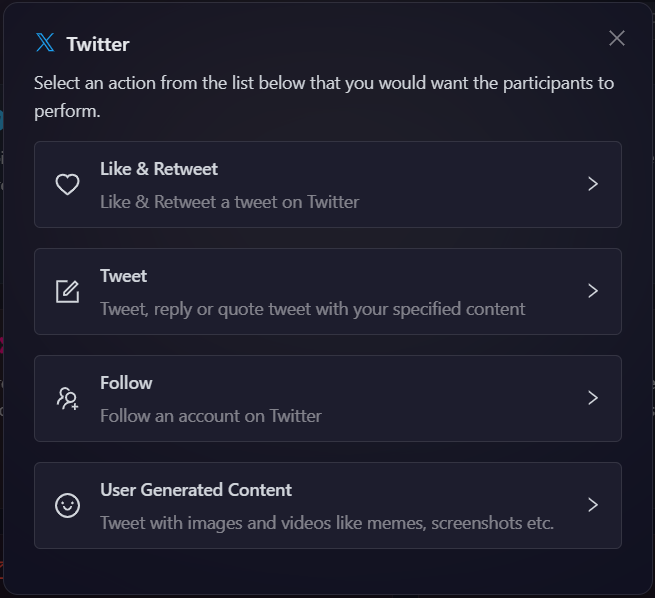
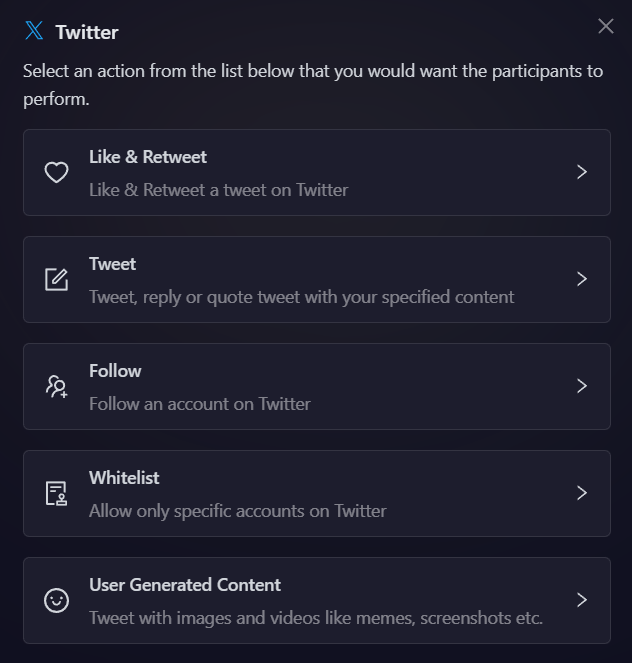
twitter whitelist updated docs

diff --git a/docs/campaign/quests/twitter.md b/docs/campaign/quests/twitter.md
@@ -1,42 +1,45 @@
 # Twitter
 
-Twitter is by far one of the most important social channel that probably any web 3 companies look forward to for building, scaling, and engaging their communities. With that in mind, we have integrated Twitter actions on AirLyft that projects can create action on and ask their community members to complete. In this module, we will be discussing below Twitter actions. 
+Twitter is by far one of the most important social channel that probably any web 3 companies look forward to for building, scaling, and engaging their communities. With that in mind, we have integrated Twitter actions on AirLyft that projects can create action on and ask their community members to complete. In this module, we will be discussing below Twitter actions.
 
 - [Like and Retweet a post on Twitter](#like-and-retweet-a-post-on-twitter)
 - [Tweet Specific Content on Twitter](#tweet-specific-content-on-twitter)
 - [Follow an account on Twitter](#follow-an-account-on-twitter)
+- [Allow only specific accounts on Twitter](#allow-only-specific-accounts-on-twitter)
 - [User Generated Content on Twitter](#user-generated-content-on-twitter)
 
 Creating these actions are very simple and straight forward at AirLyft. Let's dive deep into steps on how to create Twitter Actions on AirLyft.
 
-- First Login onto AirLyft App, Create an event, and head over to Quests tab as shown in the screenshot below. 
+- First Login onto AirLyft App, Create an event, and head over to Quests tab as shown in the screenshot below.
 
 ![](../../images/TwitterAction.png)
 
-- After clicking on the Twitter box, you will then be presented with options for selecting Twitter Actions. Let's read in depth about each of them. 
+- After clicking on the Twitter box, you will then be presented with options for selecting Twitter Actions. Let's read in depth about each of them.
 
 ![](../../images/TwitterOptions.png)
 
 #### Like and Retweet a post on Twitter
 
-Follow these simple steps below on how to create like & retweet tasks on AirLyft. 
+Follow these simple steps below on how to create like & retweet tasks on AirLyft.
 
-- As shown in screenshot above, click on the Twitter box where you can find the Like & Retweet option. Click on it. 
-- Next, click on the basic details option to enter the Title, Description, cFuel and XP. It is advisable to elaborate the title and description so that participants have a much greater understanding of task. 
+- As shown in screenshot above, click on the Twitter box where you can find the Like & Retweet option. Click on it.
+- Next, click on the basic details option to enter the Title, Description, cFuel and XP. It is advisable to elaborate the title and description so that participants have a much greater understanding of task.
 
 ![](../../images/LikeRetweetBasics.png)
 
-- Then expand 'Task Condition and Recurrence' option to set the task frequency and task conditions. 
-    - 'Task Frequency' determines how often users can complete a task. There are four options:
-        - **None:** The task can only be completed once.
-        - **Daily:** The task resets daily at midnight.
-        - **Weekly:** The task resets at the start of every week.
-        - **Monthly:** The task resets at the start of every month.
+- Then expand 'Task Condition and Recurrence' option to set the task frequency and task conditions.
 
-    - 'Task Conditions' determines if a user can perform a task or not. There are four options:
-        - **Task Completed:** It only allows a user to perform a task if he has either completed or not completed another task.
-        - **Date:** It only allows user to perform a task before or after the set date.
-        - **Max Participants:** The task is locked after a certain number of users have completed it.
+  - 'Task Frequency' determines how often users can complete a task. There are four options:
+
+    - **None:** The task can only be completed once.
+    - **Daily:** The task resets daily at midnight.
+    - **Weekly:** The task resets at the start of every week.
+    - **Monthly:** The task resets at the start of every month.
+
+  - 'Task Conditions' determines if a user can perform a task or not. There are four options:
+    - **Task Completed:** It only allows a user to perform a task if he has either completed or not completed another task.
+    - **Date:** It only allows user to perform a task before or after the set date.
+    - **Max Participants:** The task is locked after a certain number of users have completed it.
 
 ![](../../images/LikeRetweetFrequency.png)
 
@@ -44,35 +47,37 @@ Follow these simple steps below on how to create like & retweet tasks on AirLyft
 
 ![](../../images/LikeRetweetURL.png)
 
-- Finally, click on ** Add Task ** Button and your Like & Retweet task has been added successfully. 
+- Finally, click on ** Add Task ** Button and your Like & Retweet task has been added successfully.
 
 #### Tweet Specific Content on Twitter
 
-Most of the times, projects wants user to post a specific content on Twitter pertaining to a certain release or upcoming events. For instance, let's suppose that a project XYZ is about to release a staking functionality in the month of January '23 and as a part of tasks, the project wants all its participants to tweet the below content on Twitter. 
+Most of the times, projects wants user to post a specific content on Twitter pertaining to a certain release or upcoming events. For instance, let's suppose that a project XYZ is about to release a staking functionality in the month of January '23 and as a part of tasks, the project wants all its participants to tweet the below content on Twitter.
 
 > ** Hey!!! A new staking functionality will be live on XYZ App by January '23. #XYZ #Staking **
 
 Hence, if projects wants users to post a specific content, they can use the Tweet Specific content functionality on AirLyft and the platform will validate if this particular specific content by posted by the participants or not. Please follow steps below on creating a Tweet Specific content task.
 
-- Click on the Twitter Box where you can find the Tweet Specific Content option. 
+- Click on the Twitter Box where you can find the Tweet Specific Content option.
 
 ![](../../images/TwitterOptions.png)
 
-- Next, click on the basic details option to enter the Title, Description cFuel and XP. It is advisable to elaborate the title and description so that participants have a much greater understanding of task. 
+- Next, click on the basic details option to enter the Title, Description cFuel and XP. It is advisable to elaborate the title and description so that participants have a much greater understanding of task.
 
 ![](../../images/TweetBasics.png)
 
-- Then expand 'Task Condition and Recurrence' option to set the task frequency and task conditions. 
-    - 'Task Frequency' determines how often users can complete a task. There are four options:
-        - **None:** The task can only be completed once.
-        - **Daily:** The task resets daily at midnight.
-        - **Weekly:** The task resets at the start of every week.
-        - **Monthly:** The task resets at the start of every month.
+- Then expand 'Task Condition and Recurrence' option to set the task frequency and task conditions.
 
-    - 'Task Conditions' determines if a user can perform a task or not. There are four options:
-        - **Task Completed:** It only allows a user to perform a task if he has either completed or not completed another task.
-        - **Date:** It only allows user to perform a task before or after the set date.
-        - **Max Participants:** The task is locked after a certain number of users have completed it.
+  - 'Task Frequency' determines how often users can complete a task. There are four options:
+
+    - **None:** The task can only be completed once.
+    - **Daily:** The task resets daily at midnight.
+    - **Weekly:** The task resets at the start of every week.
+    - **Monthly:** The task resets at the start of every month.
+
+  - 'Task Conditions' determines if a user can perform a task or not. There are four options:
+    - **Task Completed:** It only allows a user to perform a task if he has either completed or not completed another task.
+    - **Date:** It only allows user to perform a task before or after the set date.
+    - **Max Participants:** The task is locked after a certain number of users have completed it.
 
 ![](../../images/TweetFrequency.png)
 
@@ -81,49 +86,89 @@ Hence, if projects wants users to post a specific content, they can use the Twee
 - Now, say in certain cases, if you dont want users to write anything and just add Hashtags or mention Specific users, in that case, just enter the required Hashtag and users as shown in screenshot below. You can also specify the number of friends to tag, and number of media attachments to include in the Tweet being sent out.
 
 - You can also select the type of verification you want for the task. There are two options:
-    - Manually verify submissions: Manually select which submission to mark as valid. This is helpful in case of user generated content.
-    - Auto verify submissions: All submissions are automatically marked as valid.
+  - Manually verify submissions: Manually select which submission to mark as valid. This is helpful in case of user generated content.
+  - Auto verify submissions: All submissions are automatically marked as valid.
 
 ![](../../images/TweetItems.png)
 
-- Finally, click on the ** Add Task ** button to create this task. 
+- Finally, click on the ** Add Task ** button to create this task.
 
-**Note:** In case of 'Auto verify submissions', AirLyft will automatically verify if participants have actually posted the same content or not, or have they actually mentioned the hashtags, or they have mentioned 3 of their friends or not. Only if all the conditions have been carried out, points for this specific tasks will be awarded to the participants. 
+**Note:** In case of 'Auto verify submissions', AirLyft will automatically verify if participants have actually posted the same content or not, or have they actually mentioned the hashtags, or they have mentioned 3 of their friends or not. Only if all the conditions have been carried out, points for this specific tasks will be awarded to the participants.
 
 #### Follow an account on Twitter
 
-Follow these simple steps below on how to create follow a Twitter account task on AirLyft. 
+Follow these simple steps below on how to create follow a Twitter account task on AirLyft.
 
-- Headover to Twitter box and click on the Follow option. 
-- Next, click on the basic details option to enter the Title, Description and Entries. It is advisable to elaborate the title and description so that participants have a much greater understanding of task. 
+- Headover to Twitter box and click on the Follow option.
+- Next, click on the basic details option to enter the Title, Description and Entries. It is advisable to elaborate the title and description so that participants have a much greater understanding of task.
 
 ![](../../images/FollowBasics.png)
 
-- Then expand 'Task Condition and Recurrence' option to set the task frequency and task conditions. 
-    - 'Task Frequency' determines how often users can complete a task. There are four options:
-        - **None:** The task can only be completed once.
-        - **Daily:** The task resets daily at midnight.
-        - **Weekly:** The task resets at the start of every week.
-        - **Monthly:** The task resets at the start of every month.
+- Then expand 'Task Condition and Recurrence' option to set the task frequency and task conditions.
 
-    - 'Task Conditions' determines if a user can perform a task or not. There are four options:
-        - **Task Completed:** It only allows a user to perform a task if he has either completed or not completed another task.
-        - **Date:** It only allows user to perform a task before or after the set date.
-        - **Max Participants:** The task is locked after a certain number of users have completed it.
+  - 'Task Frequency' determines how often users can complete a task. There are four options:
+
+    - **None:** The task can only be completed once.
+    - **Daily:** The task resets daily at midnight.
+    - **Weekly:** The task resets at the start of every week.
+    - **Monthly:** The task resets at the start of every month.
+
+  - 'Task Conditions' determines if a user can perform a task or not. There are four options:
+    - **Task Completed:** It only allows a user to perform a task if he has either completed or not completed another task.
+    - **Date:** It only allows user to perform a task before or after the set date.
+    - **Max Participants:** The task is locked after a certain number of users have completed it.
 
 - Now the only thing left is to enter the URL of the Twitter account that you want your participants to Follow.
 
 ![](../../images/FollowURL.png)
 
-- Finally, click on ** Add Task ** Button and your Follow account task has been added successfully. 
+- Finally, click on ** Add Task ** Button and your Follow account task has been added successfully.
+
+#### Allow Only Specific Accounts On Twitter
+
+The Allow Only Specific Accounts on Twitter feature enables projects to restrict task participation to a predefined list of Twitter handles. This ensures that only whitelisted users can verify and complete the quest. AirLyft automatically cross-checks participants against the whitelist and approves only those included.
+
+For example, suppose Project XYZ is launching a new staking feature in February 2025 and wants only its early adopters to share feedback on what tokens they’d like to see on the platform. By using the whitelist functionality, the project can ensure that only these selected participants can engage in the campaign. Let’s go through the process of setting up this task.
+
+- To begin, head over to the Twitter option in AirLyft and select the Whitelist option, as shown in the screenshot below.
+
+![](../../images/TwitterOptions.png)
+
+- At the first step, enter the Basic Information for the whitelisted task. This includes a title and description. It is recommended to provide a detailed description so that participants have a clear understanding of the task and its requirements.
+
+![](../../images/twitterSpecificAccountBasics.png)
+
+- Once the basic details are set, you can customize the task further by adding a custom icon. While optional, this helps create a visually distinctive task that aligns with your branding.
+
+![](../../images/twitterSpecificAccountCustom.png)
+
+- Next, expand 'Task Condition and Recurrence' option to set the task frequency and task conditions.
+
+  - 'Task Frequency' determines how often users can complete a task. There are four options:
+
+    - **None:** The task can only be completed once.
+    - **Daily:** The task resets daily at midnight.
+    - **Weekly:** The task resets at the start of every week.
+    - **Monthly:** The task resets at the start of every month.
+
+  - 'Task Conditions' determines if a user can perform a task or not. There are four options:
+    - **Task Completed:** It only allows a user to perform a task if he has either completed or not completed another task.
+    - **Date:** It only allows user to perform a task before or after the set date.
+    - **Max Participants:** The task is locked after a certain number of users have completed it.
+
+![](../../images/twitterSpecificAccountCSV.png)
+
+- After configuring the task conditions, the next step is to upload a **CSV file** containing the Twitter handles that should be whitelisted. This ensures that only approved users can participate in the task.
+
+- Lastly, click on **Add task** to create this task.
 
 #### User Generated Content on Twitter
 
-As the name suggests, user generated content can specifically be used by the projects to create tasks where they can opt users to enter their own suggestions about a certain activity. Unlike Tweet Specific Content functionality where users have to post only the content shared by project, in UGC tasks, users write their original content and share it as submissions. 
+As the name suggests, user generated content can specifically be used by the projects to create tasks where they can opt users to enter their own suggestions about a certain activity. Unlike Tweet Specific Content functionality where users have to post only the content shared by project, in UGC tasks, users write their original content and share it as submissions.
 
-For instance, let's suppose that a project XYZ is about to release a staking functionality in the month of January '23 and as a part of campaign, the project wants all its participants to tweet their feedback about what tokens do they want to see in their Staking Platform. At AirLyft, you can create such tasks very easily using the User Generated Content functionality. Let's dive deep into how can we create this task. 
+For instance, let's suppose that a project XYZ is about to release a staking functionality in the month of February '25 and as a part of campaign, the project wants all its participants to tweet their feedback about what tokens do they want to see in their Staking Platform. At AirLyft, you can create such tasks very easily using the User Generated Content functionality. Let's dive deep into how can we create this task.
 
-- Headover to Twitter option at AirLyft and click on the User Generated content option as shown in the screenshot below. 
+- Headover to Twitter option at AirLyft and click on the User Generated content option as shown in the screenshot below.
 
 ![](../../images/TwitterOptions.png)
 
@@ -131,20 +176,20 @@ For instance, let's suppose that a project XYZ is about to release a staking fun
 
 ![](../../images/UGCBasics.png)
 
-- Once the Basic Information for UGC task has been set, next is to put conditions on type of contents that you need users to submit. If you want users to Tweet with just text, toggle the "Tweet must contain text" to On. And, if you want users to add ../images too, toggle the " Tweet must contain ../images" to On. As soon as you switch it On, you will be asked to enter the number of attachments users have to submit to complete the participation. 
+- Once the Basic Information for UGC task has been set, next is to put conditions on type of contents that you need users to submit. If you want users to Tweet with just text, toggle the "Tweet must contain text" to On. And, if you want users to add ../images too, toggle the " Tweet must contain ../images" to On. As soon as you switch it On, you will be asked to enter the number of attachments users have to submit to complete the participation.
 
 ![](../../images/UGCTextImage.png)
 
-- Moving forward to next step which is ** Associate Uploaded Content **. Here you are provided with 2 options which is ** "By quoting a given tweet" or "As a reply to given tweet" **. This functionality is specifically built to help projects provide options to its participants if their submission is in form of a Quote Tweet or just a simple reply to Tweet. Based on option selection, just enter the URL of tweet on which users will be perfomring a quote tweet or reply. 
+- Moving forward to next step which is ** Associate Uploaded Content **. Here you are provided with 2 options which is ** "By quoting a given tweet" or "As a reply to given tweet" **. This functionality is specifically built to help projects provide options to its participants if their submission is in form of a Quote Tweet or just a simple reply to Tweet. Based on option selection, just enter the URL of tweet on which users will be perfomring a quote tweet or reply.
 
 ![](../../images/UGCQTReply.png)
 
-- Now, if you want users to add any specific hashtag or mention any specific users or tag any friends, you can add them based on your requirements, and AirLyft is gonna take care of the rest. 
+- Now, if you want users to add any specific hashtag or mention any specific users or tag any friends, you can add them based on your requirements, and AirLyft is gonna take care of the rest.
 
 ![](../../images/UGCHashtagMention.png)
 
-- Lastly, click on ** Add task ** to create this task. 
+- Lastly, click on ** Add task ** to create this task.
 
-**Note:** Based on the conditions set by the project, AirLyft will automatically verify if participants have actually posted the user generated content or not, or have they actually mentioned the hashtags, or they have mentioned 3 of their friends or not. Only if all the conditions have been carried out, points for this specific tasks will be awarded to the participants. 
+**Note:** Based on the conditions set by the project, AirLyft will automatically verify if participants have actually posted the user generated content or not, or have they actually mentioned the hashtags, or they have mentioned 3 of their friends or not. Only if all the conditions have been carried out, points for this specific tasks will be awarded to the participants.
 
 If you are facing any issues with Twitter task creation, please drop a line at [support@airlyft.freshdesk.com](mailto:support@airlyft.freshdesk.com)!
